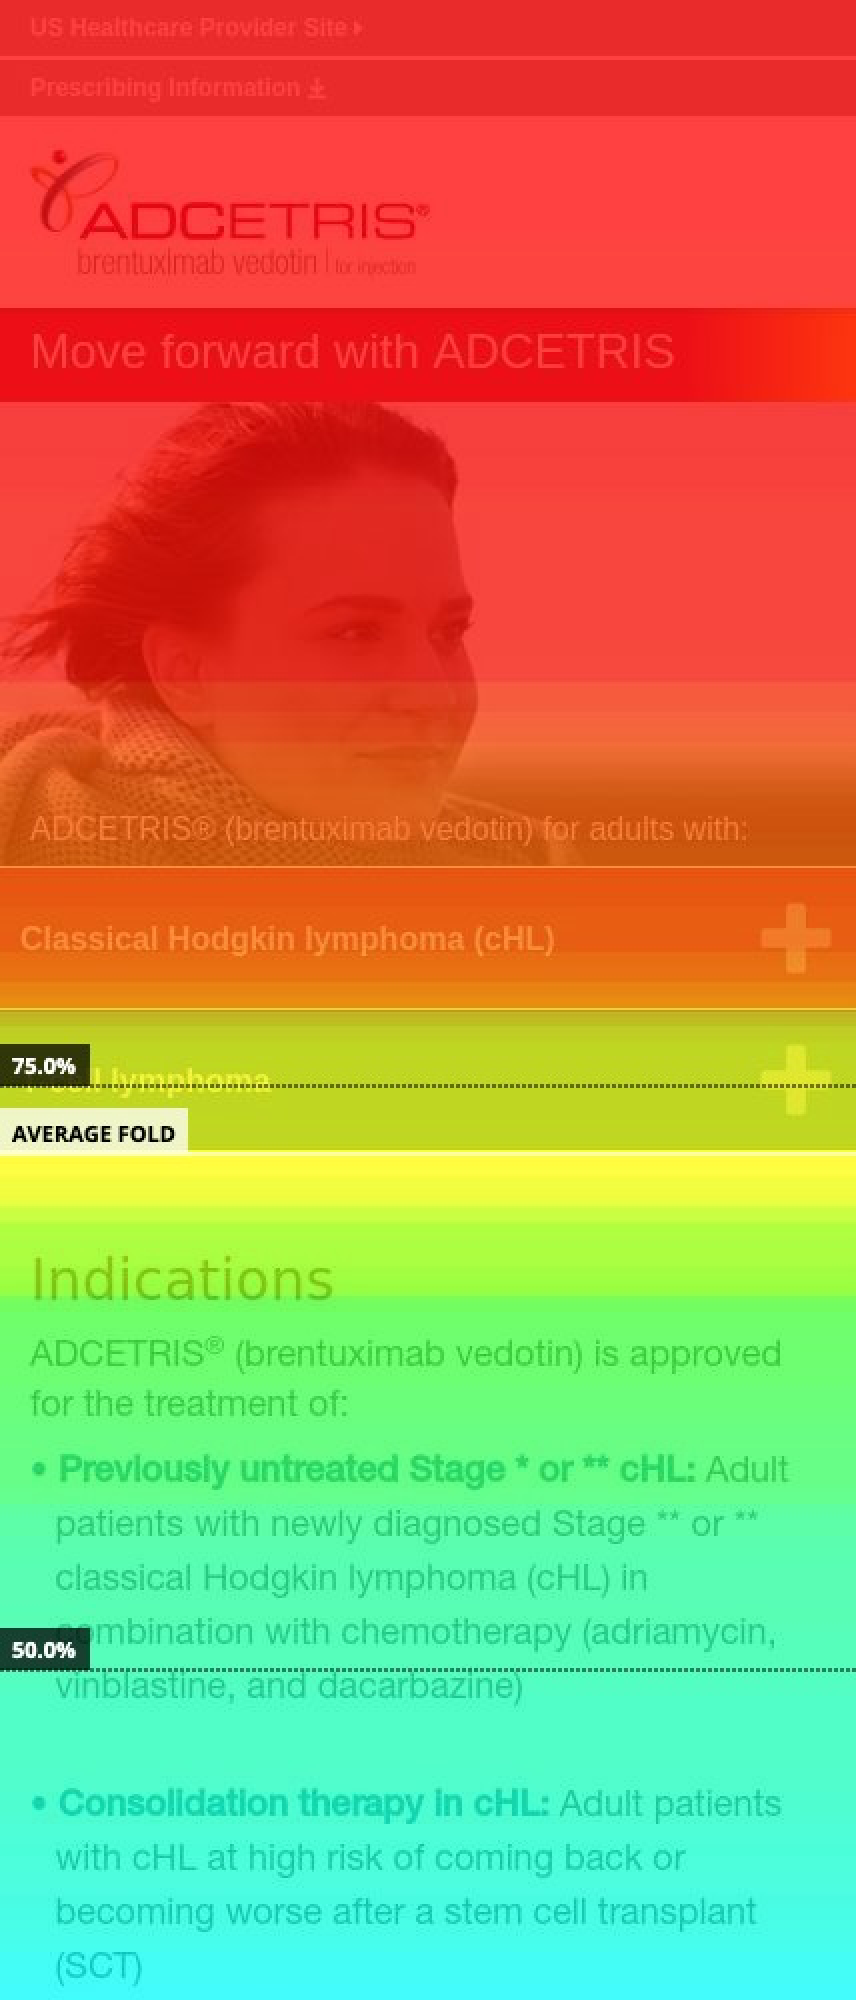
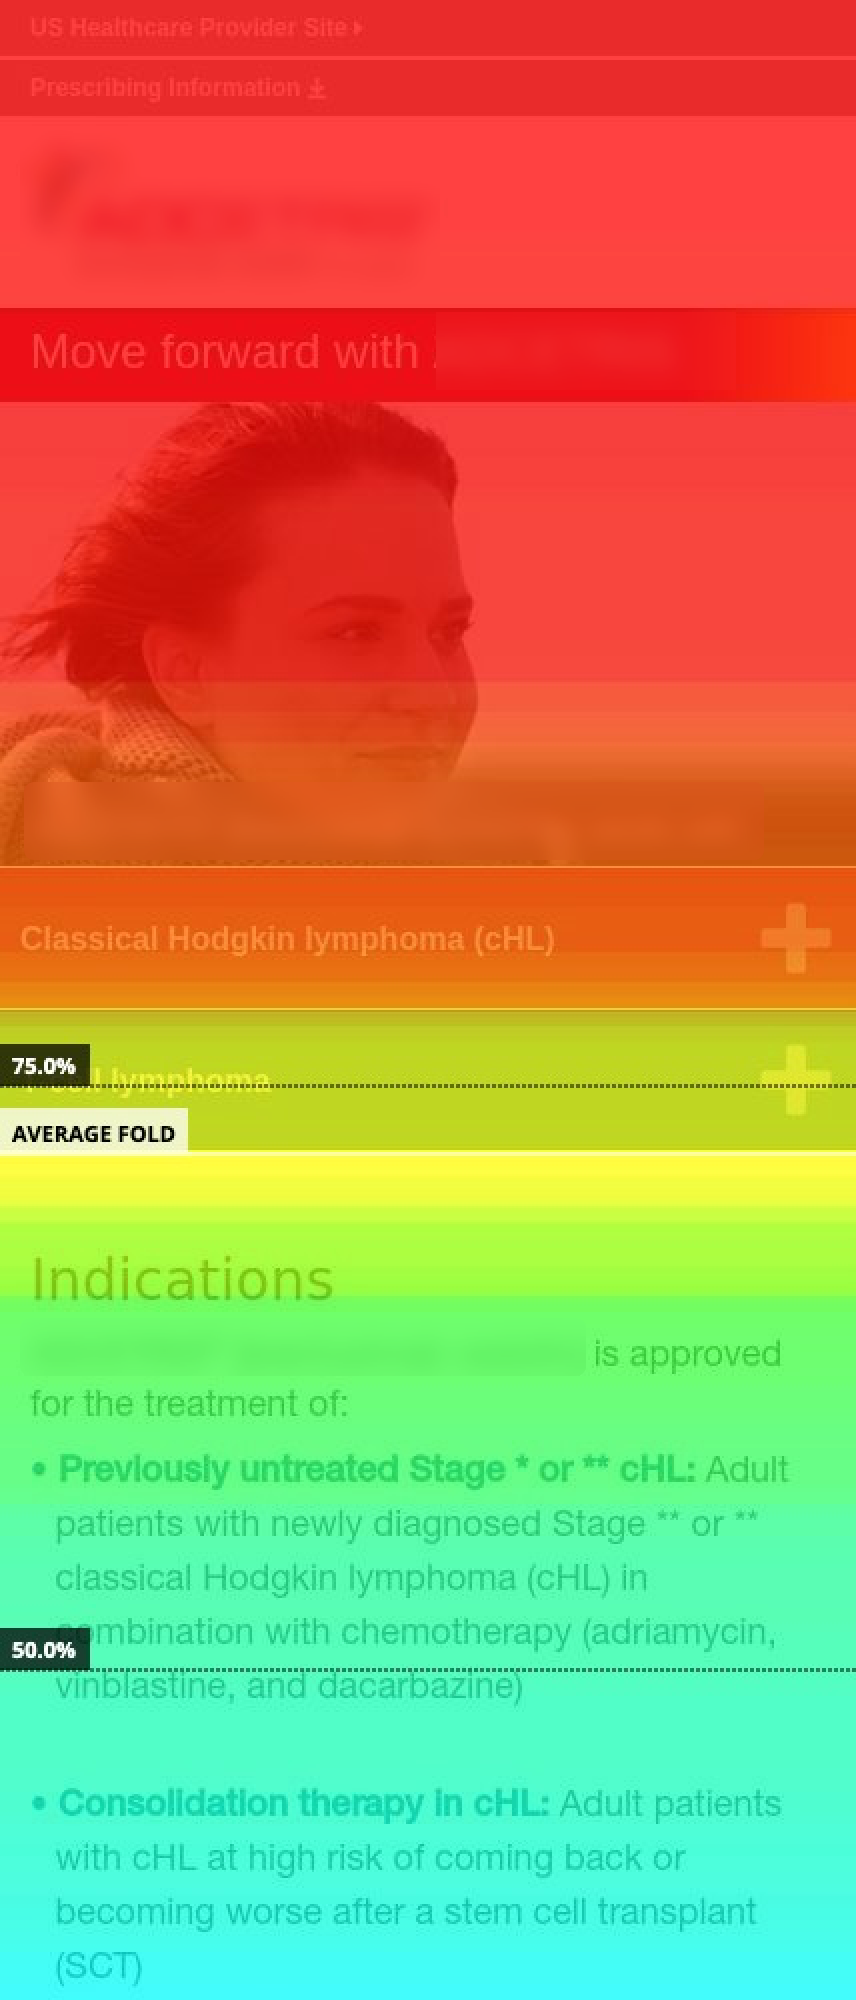
remove all mention of brand name from project

diff --git a/lymph.html b/lymph.html
@@ -24,7 +24,7 @@
       <header class="lymph-header">
         <div class="nav-bar">
           <div class="page-hero">
-            <h1>Adcetris.com Redesign</h1>
+            <h1>Wesite Refresh</h1>
           </div>
           <nav class="page-nav">
             <ul class="navigation">
@@ -48,14 +48,14 @@
           <div class="section overview-section">
             <div id="overview-anchor"></div>
             <!-- <h2>Overview</h2> -->
-            <h4>Adcetris is a drug that treats six subtypes of lymphoma (a type of cancer). Our client tasked our team with improving the usabilty and reducing the bouce rates of the Adcetris.com homepage. Using a combination of qualitative and quantitative research we designed and launched a new, better-performing version of the homepage.</h4>
+            <h4>Our client, a cancer drug manufacturer, tasked the team with improving the usabilty and reducing the bouce rates of their landing page. Using a combination of qualitative and quantitative research we designed and launched a new, better-performing version.</h4>
             <div class="lymph-desktop-mobile">
               <img src="img/lymph-to-from.png" alt="Desktop and mobile view of Booth Lake Landing Resorts' landing page">
             </div>
             <h3 class="paragraph-header">Problem</h3>
-            <p class="paragraph-copy">Data pulled from Google Analytics and Hotjar showed that users were not moving beyond the homepage and were instead scrolling up and down the page before leaving the site all together (bouncing), implying that they weren't understanding how enter the main areas of the site. The homepage also didn't feature any copy clearly describing what the drug is used for. We focused our project on the mobile experience since that is where the majority of site visits were originating.</p>
+            <p class="paragraph-copy">Data pulled from Google Analytics and Hotjar showed that users were not moving beyond the homepage and were instead scrolling up and down the page before leaving the site all together (bouncing). The homepage also didn't feature any copy describing what the drug is used for. We focused our project on mobile since that is where the majority of site visits were originating.</p>
             <h3 class="paragraph-header">Solution</h3>
-            <p class="paragraph-copy">We relied on heatmap, click/tap tracking, and user testing data to inform our redesign of the Adcetris.com landing page. The chosen design solution better communicates intended user behavior which ultimately reduces bounce and ensures users enter the interior pages related to their type of lymphoma.</p>
+            <p class="paragraph-copy">We relied on heatmap, click/tap tracking, and user testing data to inform our redesign of the landing page. The chosen design solution better communicates intended user behavior which ultimately reduces bounce and ensures users find the content they are looking for.</p>
             <h3 class="paragaph-header">Team and Role</h3>
             <ul>
               <li>UX/UI designer — myself</li>
@@ -69,15 +69,19 @@
           <div class="section research-section">
             <div id="research-anchor"></div>
             <h2>Research</h2>
-            <h4>We attacked the problem from multiple angles to ensure we came up with a well-rounded solution. We utilized <a class="inline-link" target="_blank" href="https://www.hotjar.com/">Hotjar</a> to track user click/tap and scroll behavior, explored the competitive landscape to evaluate how other multi-condition medications designed their websites to help users navigate, as well as conducted remote user testing with <a class="inline-link" target="_blank" href="https://www.usabilityhub.com/">UsabilityHub</a>.</h4>
+            <h4>We utilized <a class="inline-link" target="_blank" href="https://www.hotjar.com/">Hotjar</a> to track user click/tap and scroll behavior, explored the competitive landscape to evaluate how other multi-condition medications designed their websites to help users navigate, as well as conducted remote user testing with <a class="inline-link" target="_blank" href="https://www.usabilityhub.com/">UsabilityHub</a>.</h4>
             <h3 class="paragraph-header">Scroll behavior</h3>
             <div class="lymph-scroll-group">
               <div class="lymph-scroll-copy">
-                <p class="paragraph-copy">Diving into scroll behavior on Hotjar led us to believe that users were confused about how to interact with the page and resorted to scrolling to hunt for a solution:</p>
+                <p class="paragraph-copy">Analyzing scroll behavior on Hotjar led us to believe that users were confused about how to interact with the page and resorted to scrolling to hunt for a solution:</p>
                 <ul>
                   <li>66% of users began scrolling within 6 seconds, assuring us visitors were indeed scrolling down the page</li>
                   <li>74% of users scrolled past the average page fold, thereby seeing any content that was not immediately visible upon landing on the page</li>
-                  <li>34% of users would scroll to the bottom of the page and then scroll back to the top, suggesting two possibilities: either they couldn't find content relevant to them to engage with; or they were unclear how to engage with the site, implying ineffective use of call to actions (CTAs) on the page</li>
+                  <li>34% of users would scroll to the bottom of the page and then scroll back to the top, suggesting two possibilities:</li>
+                  <ul>
+                    <li class="sub-bullet">They could not find relevant content to engage with</li>
+                    <li class="sub-bullet">They were unclear what to do, implying ineffective use of call to actions (CTAs) on the page</li>
+                  </ul>
                   <li>97% of users would bounce without interacting with the site in any form</li>
                 </ul>
               </div>
@@ -88,9 +92,9 @@
             <h3 class="paragraph-header">Click/tap behavior</h3>
             <div class="lymph-tap-group">
               <div class="lymph-tap-copy">
-                <p class="paragraph-copy">Analyzing click/tap behavior indicated that users were unclear where to tap on the page. The CTAs on the page were rarely interacted with and users continually tapped the page logo causing the page to reload. This lead us to believe users were unaware they were on the homepage of the site, and were seeking a homepage with content to interact with:</p>
+                <p class="paragraph-copy">Analyzing click/tap behavior indicated that users were unclear where to tap on the page. The CTAs on the page were rarely interacted with.</p>
                 <ul>
-                  <li>53% of users clicked the Adcetris logo, causing the page to reload</li>
+                  <li>53% of users clicked the brand logo, causing the page to reload</li>
                   <li><1% clicked on the CTAs to expand the primary navigation which serves as the gateway into the lymphoma-specific pages of the website</li>
                 </ul>
               </div>
@@ -197,7 +201,7 @@
                 <ul>
                   <li>50 users from the general public (not actual lymphoma patients)</li>
                   <li>Individuals in the key patient age demographic (20-35 and 65+ years old)</li>
-                  <li>Individuals who had low to intermediate technical proficiency since many of Adcetris' patients may be older and less familiar with navigating the web</li>
+                  <li>Individuals who had low to intermediate technical proficiency since many of the drug's target demographic may be older and less familiar with navigating the web</li>
                 </ul>
                 <h4>Results</h4>
                 <p class="paragraph-copy">Of the three solutions proposed, a statistically significant percentage of users preferred solution 3: balance of both. This was our client's preferred design solution as well.</p>
@@ -216,11 +220,10 @@
             <h3 class="paragraph-header">Final design performance</h3>
             <p class="paragraph-copy">The latest analytics readouts from Hotjar and Google Analytics (first three weeks of data available at publishing) shows a marked improvement in site performance:</p>
             <ul>
-              <li>Decrease in bounce rates from 97% to 57%</li>
-              <li>Increase in average time spent on site by 36%</li>
-              <li>Increase in user engagement with homepage CTA buttons by 20%</li>
+              <li>Bounce rate -40%</li>
+              <li>Average time spent on site +36%</li>
+              <li>Engagement with homepage CTA buttons +20%</li>
             </ul>
-            <h3 class="site-link paragraph-header"><a class="inline-link" target="_blank" href="https://www.adcetris.com/">Live Site</a></h3>
           </div>
           <!-- <div class="section next-section">
             <div id="next-anchor"></div>

diff --git a/scss/layout/_lymph.scss b/scss/layout/_lymph.scss
@@ -21,10 +21,10 @@
     padding: 40px;
   }
   @media #{$breakpoint-large} {
-    padding: 80px;
+    padding: 80px 200px;
   }
   @media #{$breakpoint-xlarge} {
-    padding: 80px 160px;
+    // padding: 80px 160px;
   }
   .lymph-header {
     // background-image: linear-gradient(45deg, rgba(170,78,107,100), rgba(49,165,193,100));
@@ -118,7 +118,6 @@
       //   padding-left: 15%;
       // }
       .section {
-        margin-top: 60px;
         h4 {
           margin-top: 20px;
           .inline-link {
@@ -129,7 +128,7 @@
           margin-top: 20px;
         }
         h3 {
-          margin-top: 30px;
+          margin-top: 120px;
         }
         p {
           margin-top: 10px;

diff --git a/scss/layout/_gds.scss b/scss/layout/_gds.scss
@@ -132,7 +132,7 @@
           margin-top: 20px;
         }
         h3 {
-          margin-top: 30px;
+          margin-top: 120px;
         }
         p {
           margin-top: 10px;
@@ -167,7 +167,7 @@
       }
       .components-section,
       .next-section {
-        margin-top: 60px;
+        margin-top: 120px;
       }
       .overview-section {
         .gds-atomic-design {
@@ -225,7 +225,7 @@
       }
       .components-section {
         h3 {
-          margin-top: 30px;
+          margin-top: 120px;
         }
         .gds-typography-group {
           display: flex;

diff --git a/scss/base/_typography.scss b/scss/base/_typography.scss
@@ -63,6 +63,10 @@ p, li {
   font-family: "lato-bold";
 }
 
+.sub-bullet {
+  list-style-type: circle;
+}
+
 .nav-item {
   font-family: "montserrat-semibold";
   color: $blue-grey;
@@ -78,14 +82,14 @@ p, li {
     color: $blue-grey;
   }
 
-  .page-hero {
-    h1 {
-      text-align: center;
-      @media #{$breakpoint-large} {
-        text-align: left;
-      }
+.page-hero {
+  h1 {
+    text-align: center;
+    @media #{$breakpoint-large} {
+      text-align: left;
     }
   }
+}
 
 .project-label {
   font-family: "montserrat-semibold";

diff --git a/scss/layout/_index.scss b/scss/layout/_index.scss
@@ -192,7 +192,7 @@
         }
         .project-two {
           .project-graphic {
-            background-color: #C8B4BA;
+            background-color: #F3DDB3;
             position: relative;
             overflow: hidden;
             display: flex;
@@ -206,7 +206,7 @@
         }
         .project-three {
           .project-graphic {
-            background-color: #F3DDB3;
+            background-color: #AEC6CF;
             position: relative;
             overflow: hidden;
             display: flex;

diff --git a/js/scripts-interface.js b/js/scripts-interface.js
@@ -79,8 +79,6 @@ $(window).scroll(function(){
 
 // Change background color of project nav on scrollTop
 
-// Adcetris.com
-
 $(document).ready(function () {
   var scroll_pos = 0;
   $(".lymph-section-one").css({'background-color': '#1C2124', 'padding': '15px', 'border-radius': '4px', 'color': '#ffffff', 'margin-top': '0', 'box-shadow': '0px 0px 30px rgba(0,0,0,50)', 'z-index': '100'});
